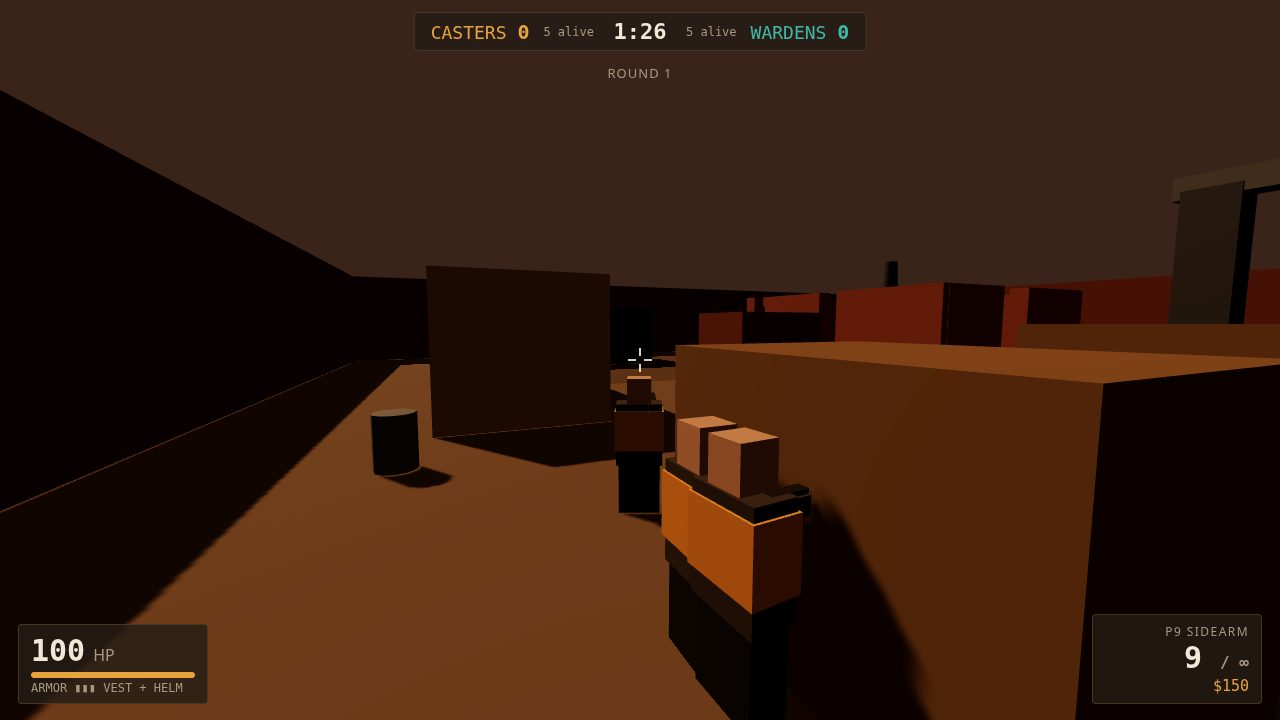
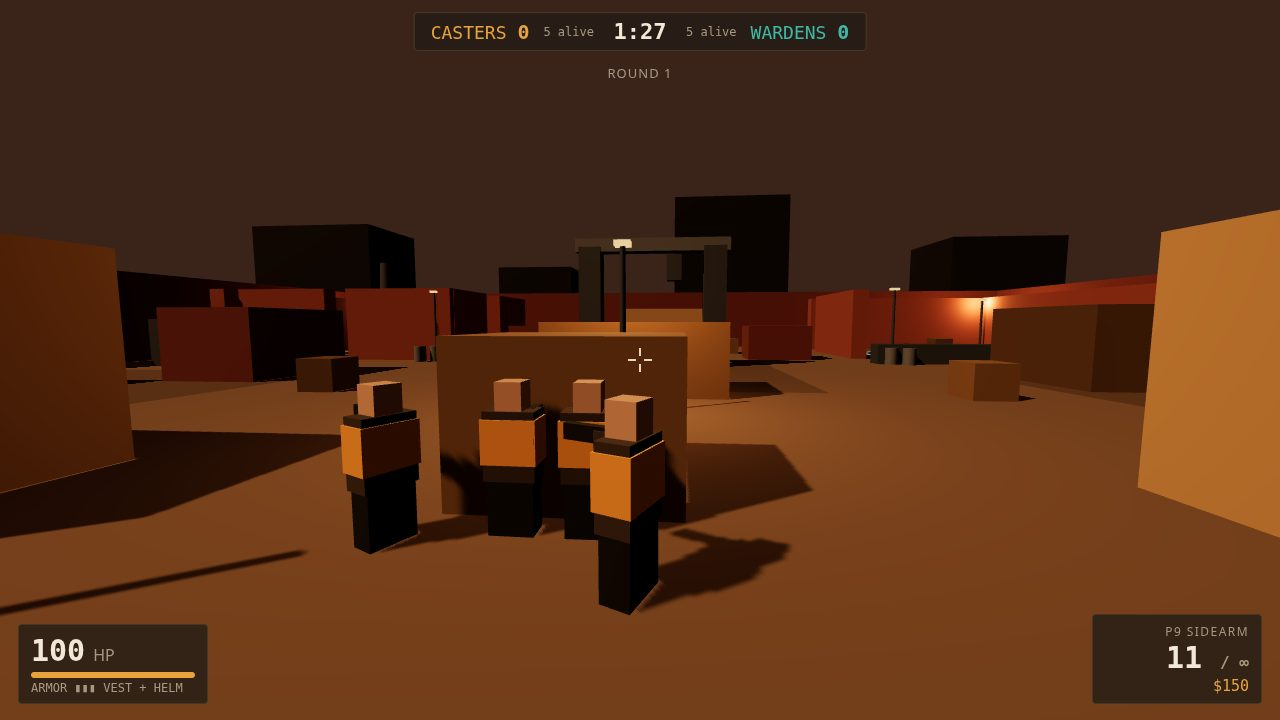
Polish: squad separation steering, yard lamps and a skyline beyond the walls

diff --git a/game/src/map.js b/game/src/map.js
@@ -271,6 +271,32 @@ export function buildWorld(scene, mats) {
     scene.add(b);
     COLLIDERS.push({ minX: x - 0.34, maxX: x + 0.34, minZ: z - 0.34, maxZ: z + 0.34, minY: 0, maxY: 0.95 });
   }
+  // The town beyond the walls: dark foundry silhouettes against the dusk, so the yard sits in a
+  // place instead of a void. Pure backdrop — outside the perimeter, no colliders.
+  const skylineGeo = new THREE.BoxGeometry(1, 1, 1);
+  for (const [x, z, w, h, d] of [[-46, -38, 16, 15, 10], [-18, -42, 10, 10, 8], [8, -40, 14, 18, 10], [38, -36, 12, 12, 9], [-48, 6, 10, 9, 14], [48, 2, 10, 13, 12], [-40, 34, 14, 8, 9], [24, 38, 16, 11, 10], [46, 30, 9, 8, 9]]) {
+    const m = new THREE.Mesh(skylineGeo, mats.dark);
+    m.position.set(x, h / 2, z);
+    m.scale.set(w, h, d);
+    scene.add(m);
+  }
+  // Yard lamps: a pole, a warm head that reads at dusk, and real light at the two sites and mid.
+  const lampPoleGeo = new THREE.CylinderGeometry(0.07, 0.09, 4.3, 8);
+  const lampHeadMat = new THREE.MeshBasicMaterial({ color: 0xffc37a });
+  for (const [x, z, withLight] of [[-14, -5.5, false], [14, -5.5, false], [0, 10.5, true], [-27.5, -19, true], [27.5, -19, true], [-6, 20, false], [6, 20, false]]) {
+    const pole = new THREE.Mesh(lampPoleGeo, mats.steel);
+    pole.position.set(x, 2.15, z);
+    pole.castShadow = true;
+    scene.add(pole);
+    const head = new THREE.Mesh(new THREE.BoxGeometry(0.42, 0.14, 0.42), lampHeadMat);
+    head.position.set(x, 4.35, z);
+    scene.add(head);
+    if (withLight) {
+      const light = new THREE.PointLight(0xffb36b, 30, 17, 1.7);
+      light.position.set(x, 4.2, z);
+      scene.add(light);
+    }
+  }
   // Site markings: a painted ring and letter on the ground of each site.
   for (const site of SITES) {
     const ring = new THREE.Mesh(

diff --git a/game/src/bots.js b/game/src/bots.js
@@ -205,7 +205,16 @@ export class BotMind {
 
   moveToward(dt, target, game, cautious) {
     const c = this.c;
-    const dx = target.x - c.pos.x, dz = target.z - c.pos.z;
+    // Separation: aim a little off any teammate crowding the same ground, so a squad moving
+    // down a lane spreads across it instead of stacking into one silhouette.
+    let tx = target.x, tz = target.z;
+    for (const other of game.characters) {
+      if (other === c || !other.alive || other.team !== c.team) continue;
+      const sx = c.pos.x - other.pos.x, sz = c.pos.z - other.pos.z;
+      const sd = Math.hypot(sx, sz);
+      if (sd > 0.01 && sd < 1.2) { tx += (sx / sd) * (1.2 - sd); tz += (sz / sd) * (1.2 - sd); }
+    }
+    const dx = tx - c.pos.x, dz = tz - c.pos.z;
     const dist = Math.hypot(dx, dz);
     const wantYaw = Math.atan2(-dx, -dz);
     c.yaw += Math.max(-TURN_RATE * dt, Math.min(TURN_RATE * dt, angDiff(wantYaw, c.yaw)));
